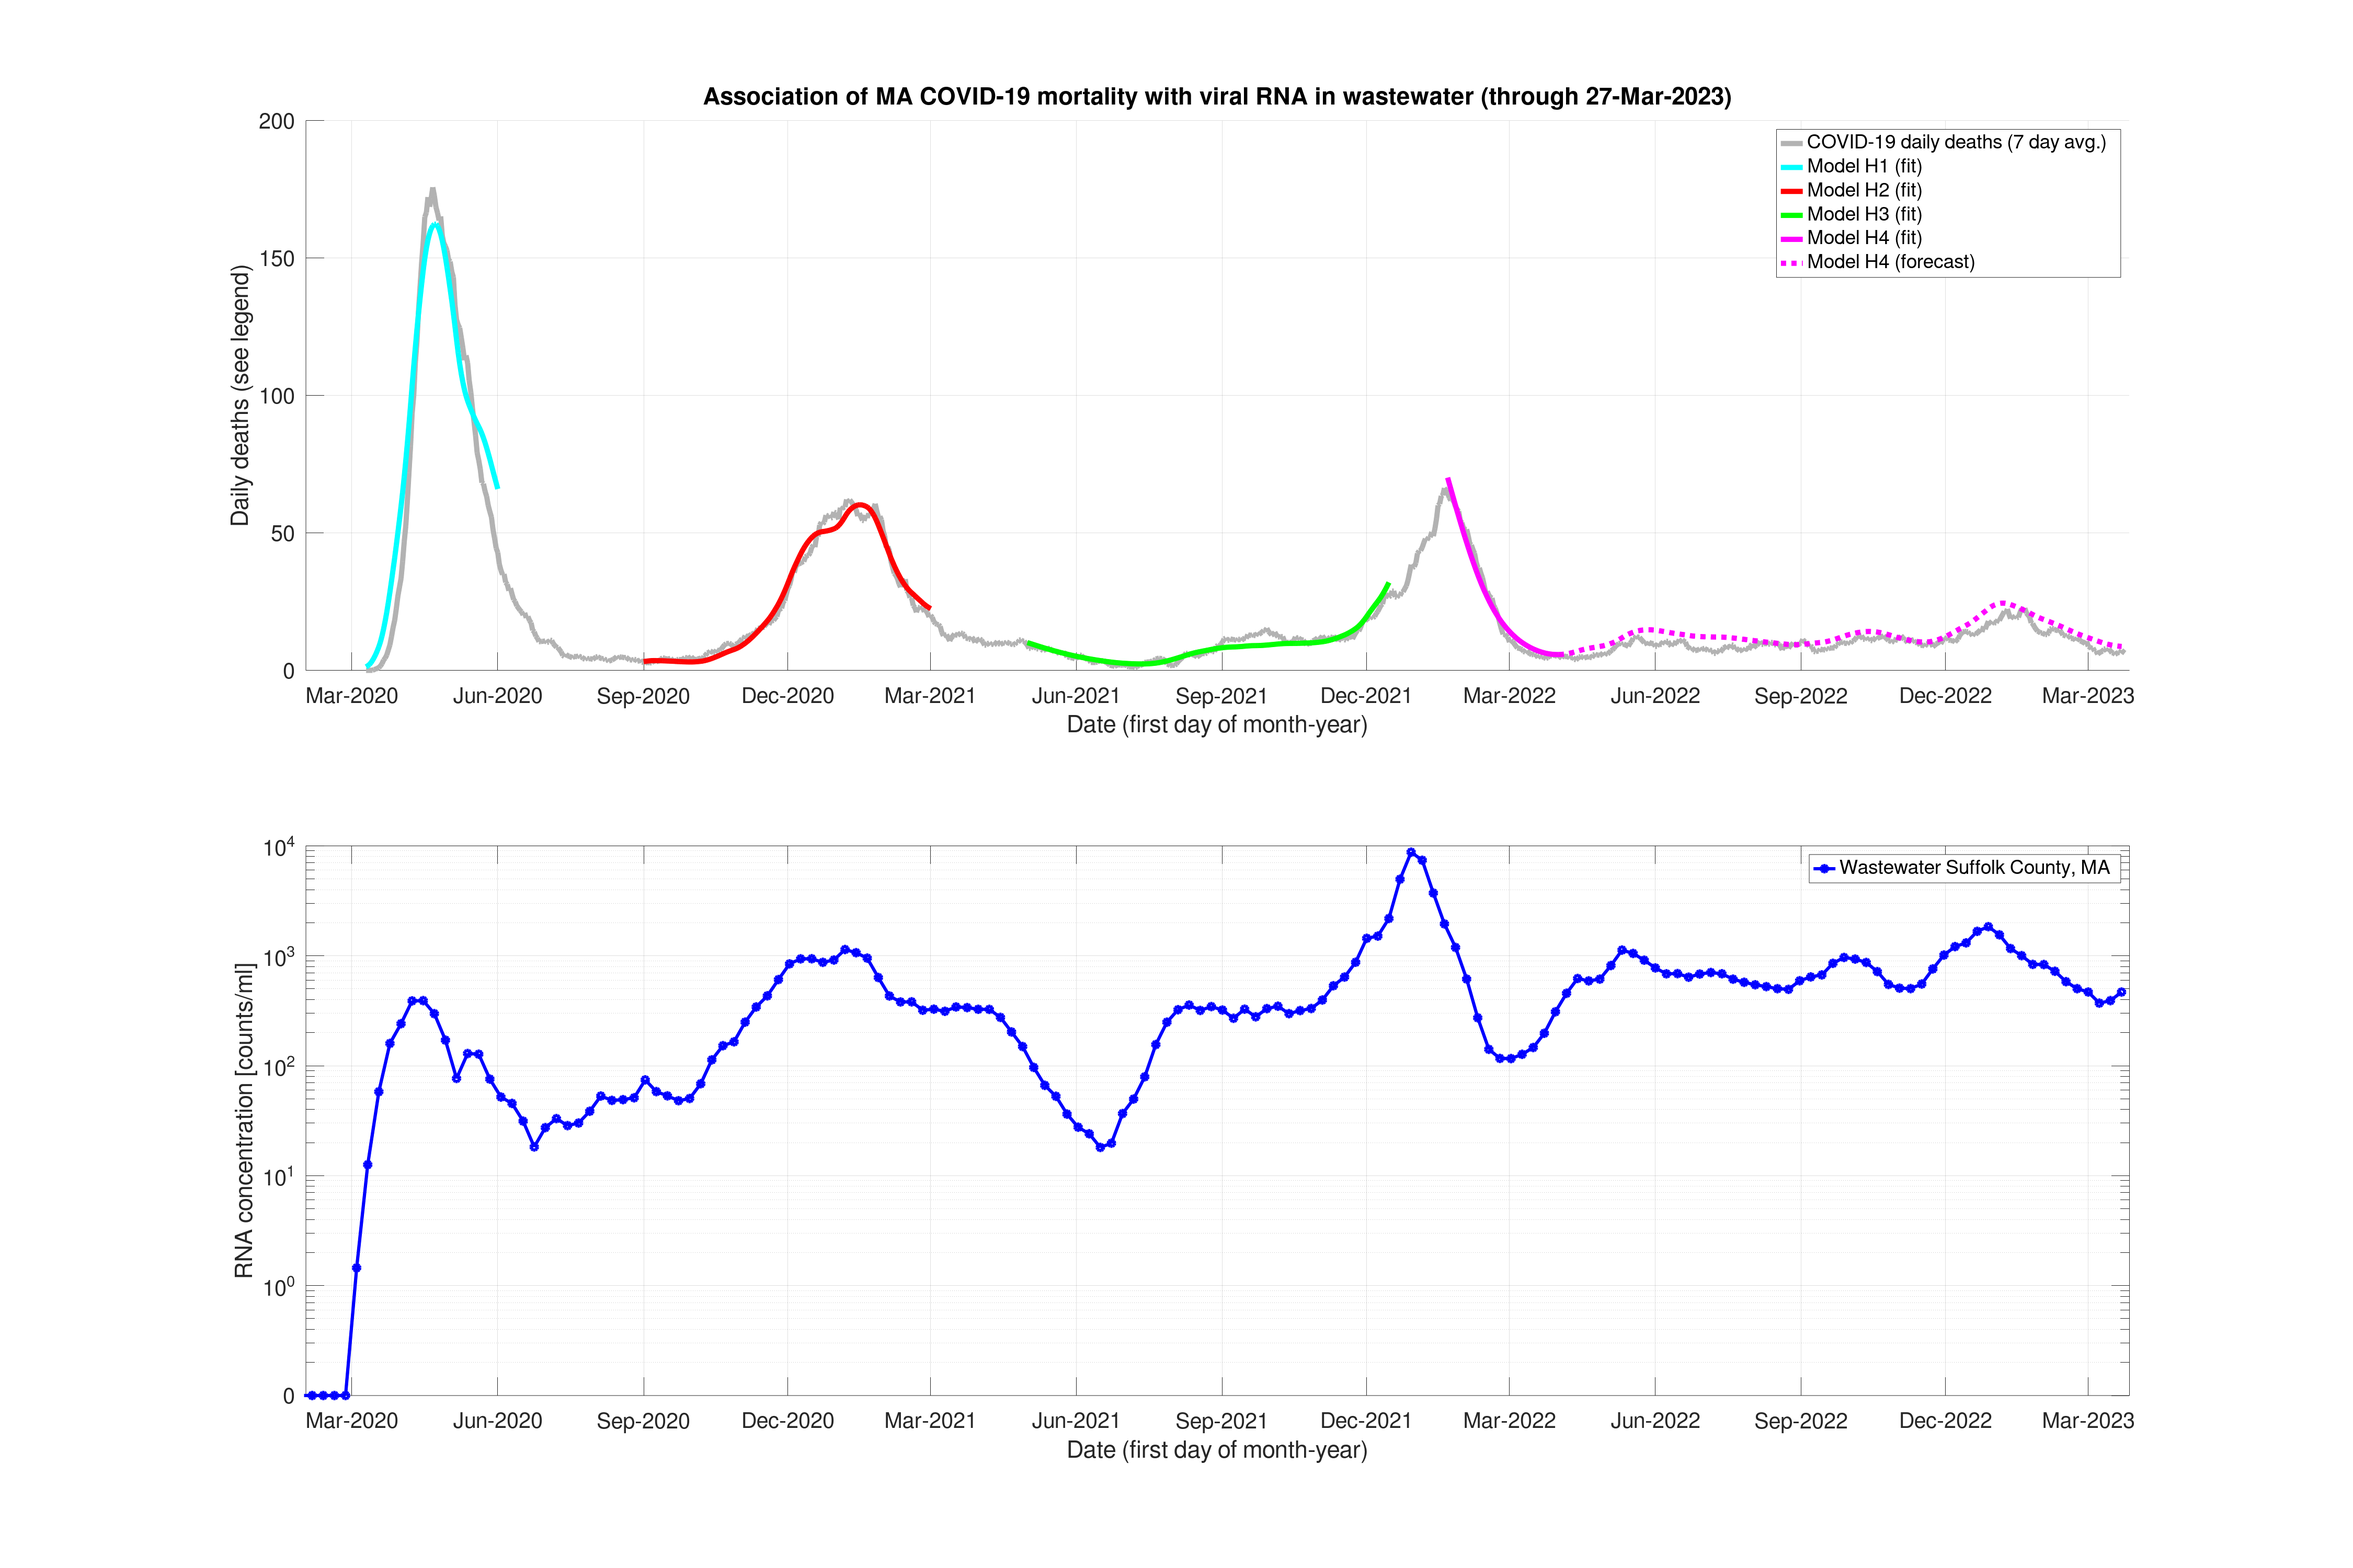
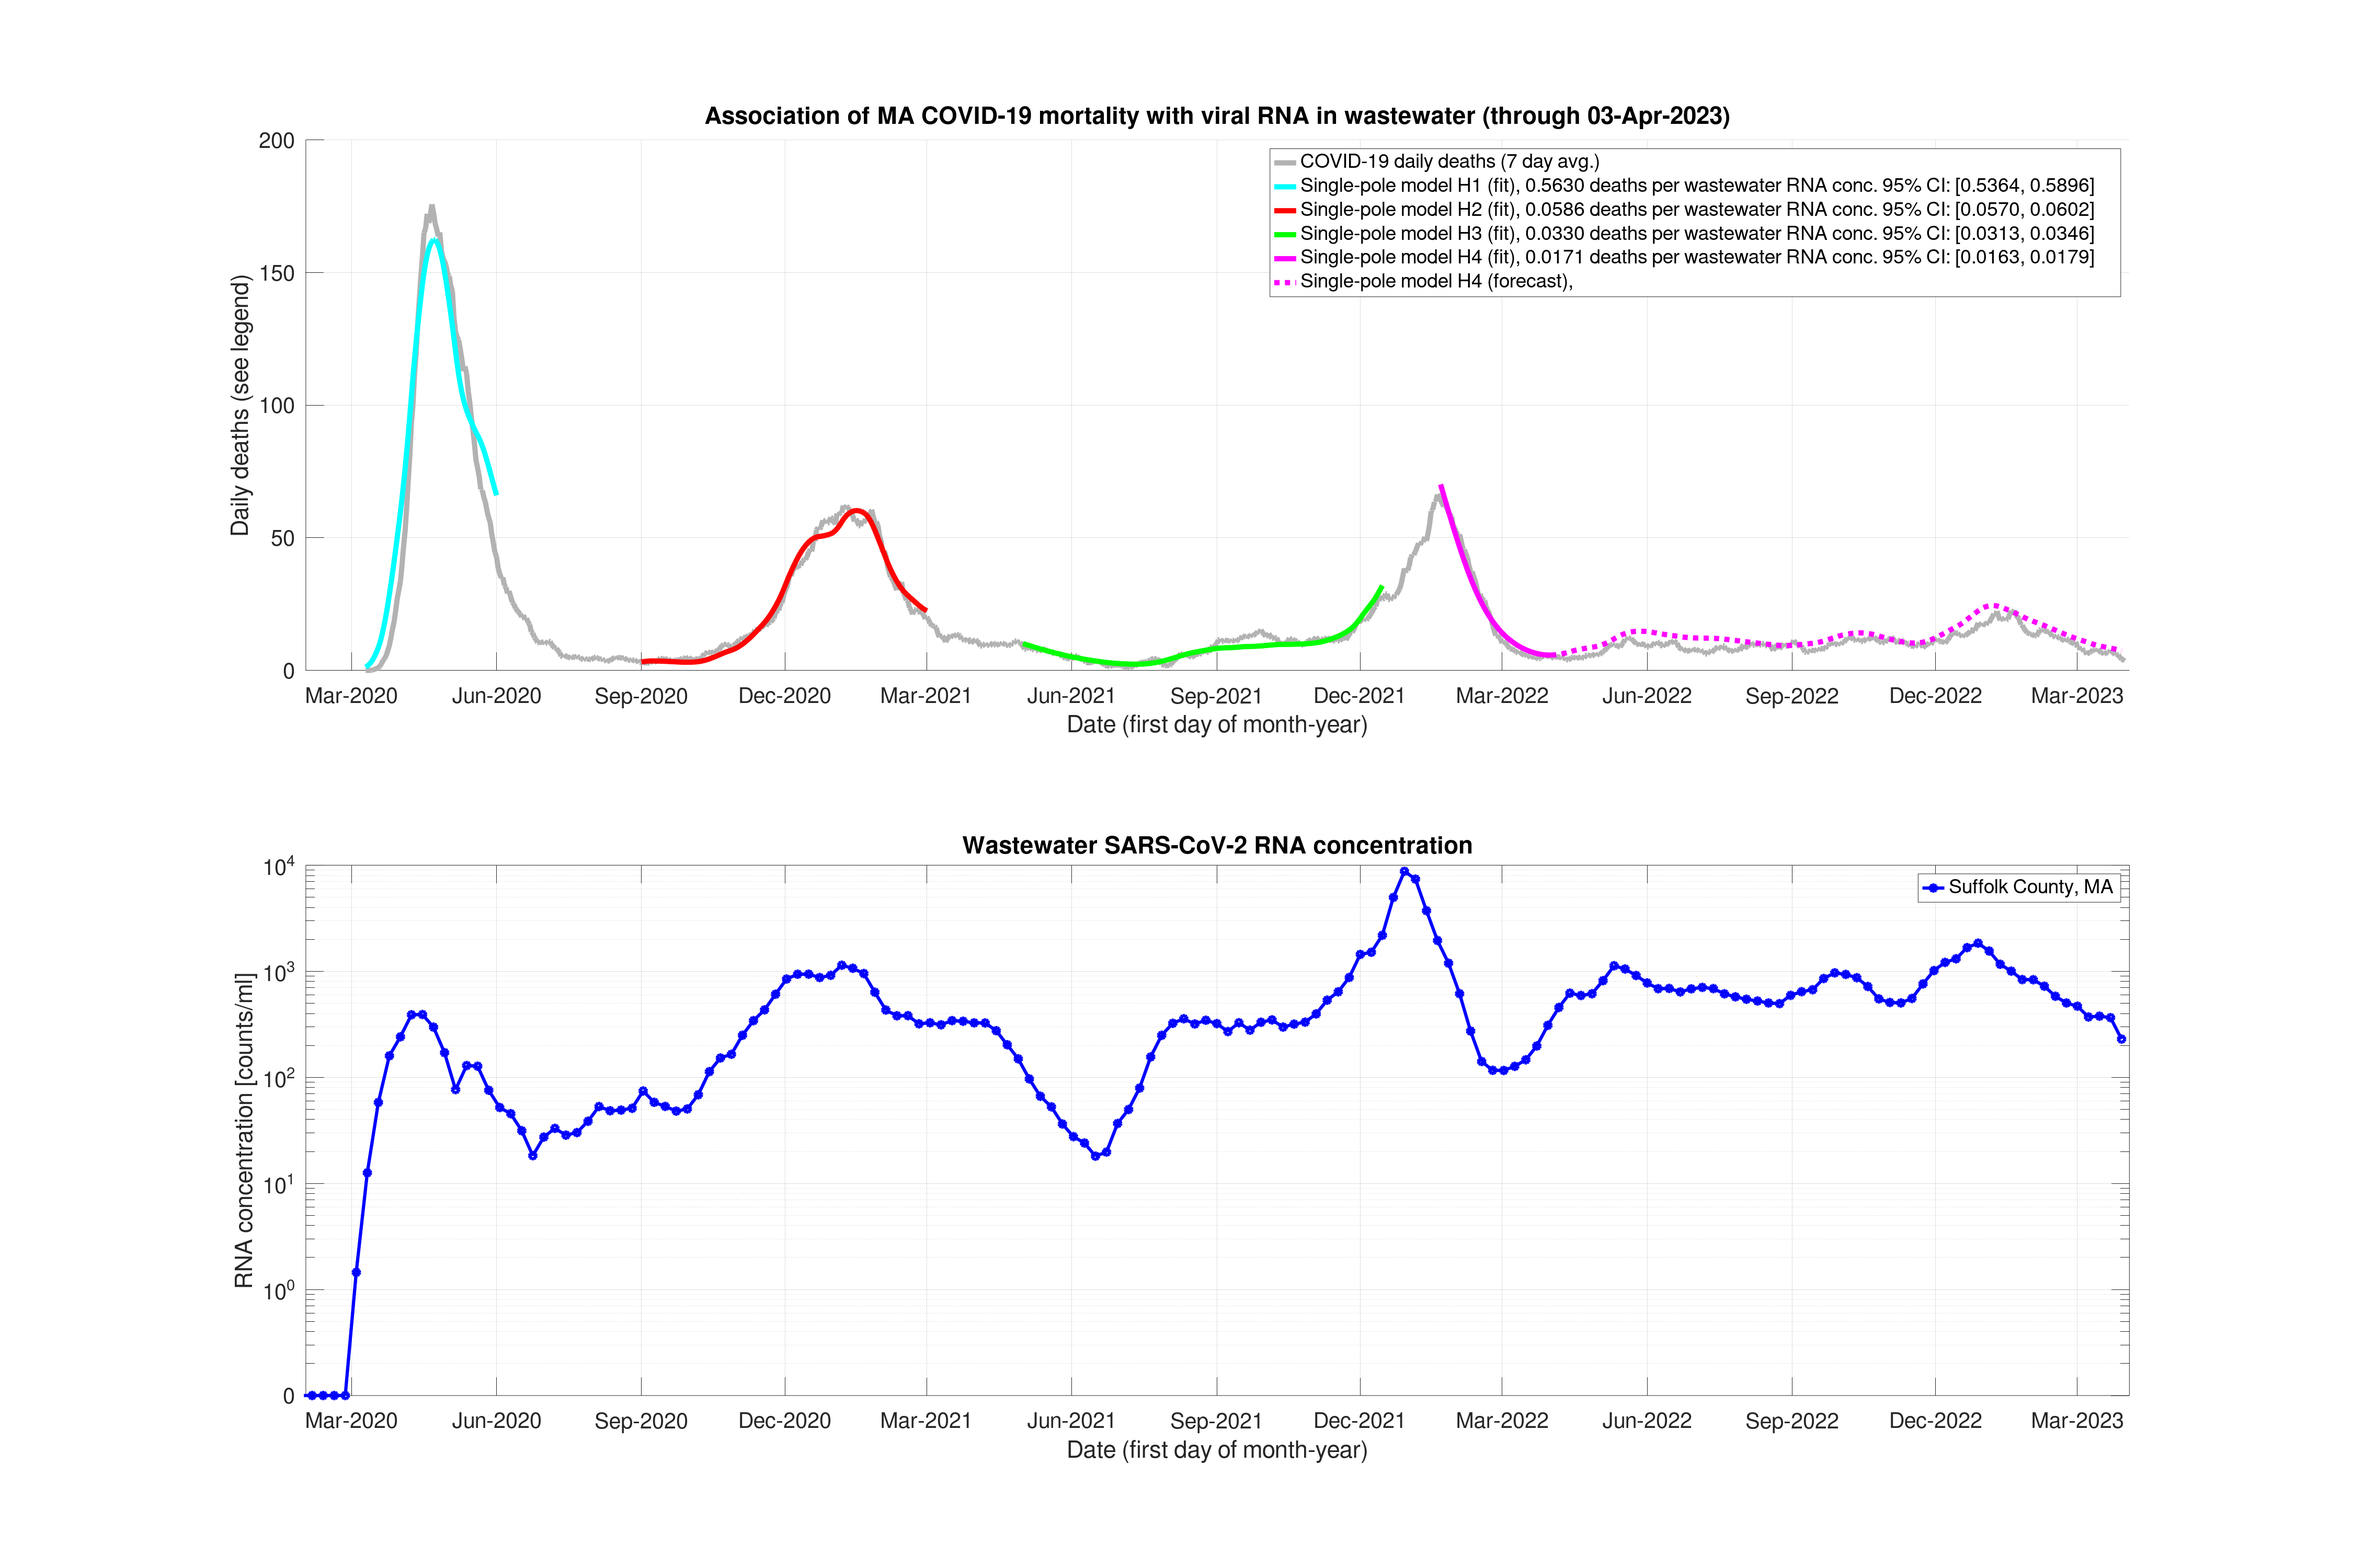
Data update

diff --git a/MA_water/runPlotFits.m b/MA_water/runPlotFits.m
@@ -28,7 +28,13 @@ for i=1:length(H)
   j = 1 + mod(i-1, length(clr));
   plot(t,y,[clr{j} ls], 'LineWidth', 5);
   drawnow;
-  lgnd{length(lgnd)+1} = sprintf('Model H%d (fit)%s', i, comment);
+  rh = ratio(i,1)+2*ratio(i,2);
+  rl = ratio(i,1)-2*ratio(i,2);
+  str2 = sprintf('%.4f deaths per wastewater RNA conc. 95%% CI: [%.4f, %.4f]', ...
+                 H{i}.p(1), rl, rh);
+  
+  lgnd{length(lgnd)+1} = sprintf('Single-pole model H%d (fit)%s, %s', ...
+                                 i, comment, str2);
   % Allow forecast/hindcast.
   if length(H{i}.tFit) > 2
     if H{i}.tFit(3) > H{i}.tFit(2)
@@ -41,6 +47,7 @@ for i=1:length(H)
     y = waterMortality(H{i}.p, water.n, water.t, t, 0);
     plot(t,y,[clr{j} ':'], 'LineWidth', 5);
     lgnd{length(lgnd)+1} = ...
-       sprintf('Model H%d (%s)', i, str);
+       sprintf('Single-pole model H%d (%s), %s', ...
+               i, str);
   end
 end

diff --git a/MA_water/readPlotWastewaterCSV.m b/MA_water/readPlotWastewaterCSV.m
@@ -43,6 +43,7 @@ ylbl = get (gca, 'yticklabel');
 ylbl{1} = '0';
 set (gca, 'yticklabel', ylbl);
 datetick('x');
-legend(sprintf('Wastewater %s', name), 'Location', 'NorthEast');
+title('Wastewater SARS-CoV-2 RNA concentration');
+legend(sprintf('%s', name), 'Location', 'NorthEast');
 ylabel('RNA concentration [counts/ml]');
 grid on;

diff --git a/README.md b/README.md
@@ -6,12 +6,12 @@ This calculation reproduces Massachusetts COVID-19 mortality data from wastewate
 
 Each model is a single-pole [linear time-invariant system](https://en.wikipedia.org/wiki/Linear_time-invariant_system), equivalent to an RC circuit and suitable for time-decay processes.  Parameters are below, including 95% confidence intervals in square brackets.
 
-| Model|       From|         To|Daily deaths per RNA/ml|     Delay (days)|
+| Model|       From|         To|      Deaths per RNA/ml|     Delay (days)|
 |------|-----------|-----------|-----------------------|-----------------|
-|    H1|10-Mar-2020|01-Jun-2020| 0.559 [0.5336, 0.5839]|14.8 [13.0, 16.7]|
-|    H2|01-Sep-2020|01-Mar-2021| 0.058 [0.0569, 0.0601]|10.4 [ 8.9, 11.9]|
-|    H3|01-May-2021|15-Dec-2021| 0.033 [0.0315, 0.0348]|32.6 [28.6, 36.5]|
-|    H4|21-Jan-2022|01-Apr-2022| 0.017 [0.0160, 0.0176]|19.6 [17.7, 21.4]|
+|    H1|10-Mar-2020|01-Jun-2020| 0.563 [0.5364, 0.5896]|15.5 [13.5, 17.5]|
+|    H2|01-Sep-2020|01-Mar-2021| 0.059 [0.0570, 0.0602]|10.9 [ 9.4, 12.5]|
+|    H3|01-May-2021|15-Dec-2021| 0.033 [0.0313, 0.0346]|33.3 [29.4, 37.3]|
+|    H4|21-Jan-2022|01-Apr-2022| 0.017 [0.0163, 0.0179]|19.7 [17.8, 21.5]|
 
 Reference 2 discusses the changing transfer function from wastewater concentration to clinical cases and mortality during 2020.
 
